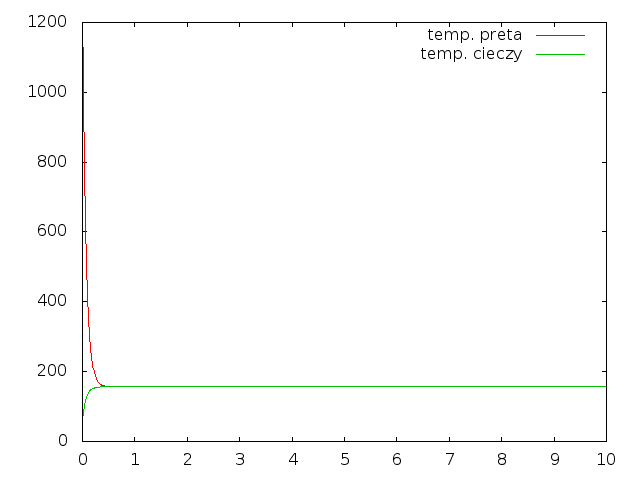
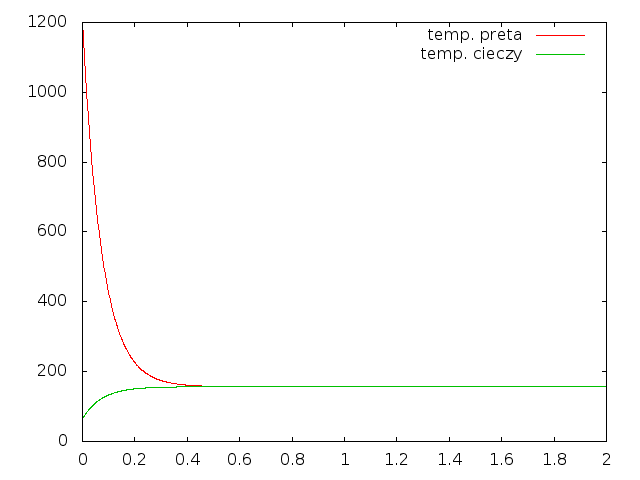
Lepsze zmienne domyślne.

diff --git a/project/alloc.c b/project/alloc.c
@@ -26,8 +26,8 @@ cool_t startalloc( cool_t cool_data , int max_iter ){
 	cool_data->stale.cb = 0.22;
 	cool_data->tend = 0.4;
 	cool_data->tempend = 200;
-	cool_data->Yc = 1000;
-	cool_data->dt = 0.01;	
+	cool_data->Yc = 2000;
+	cool_data->dt = 0.001;	
 
 	return cool_data;
 }
